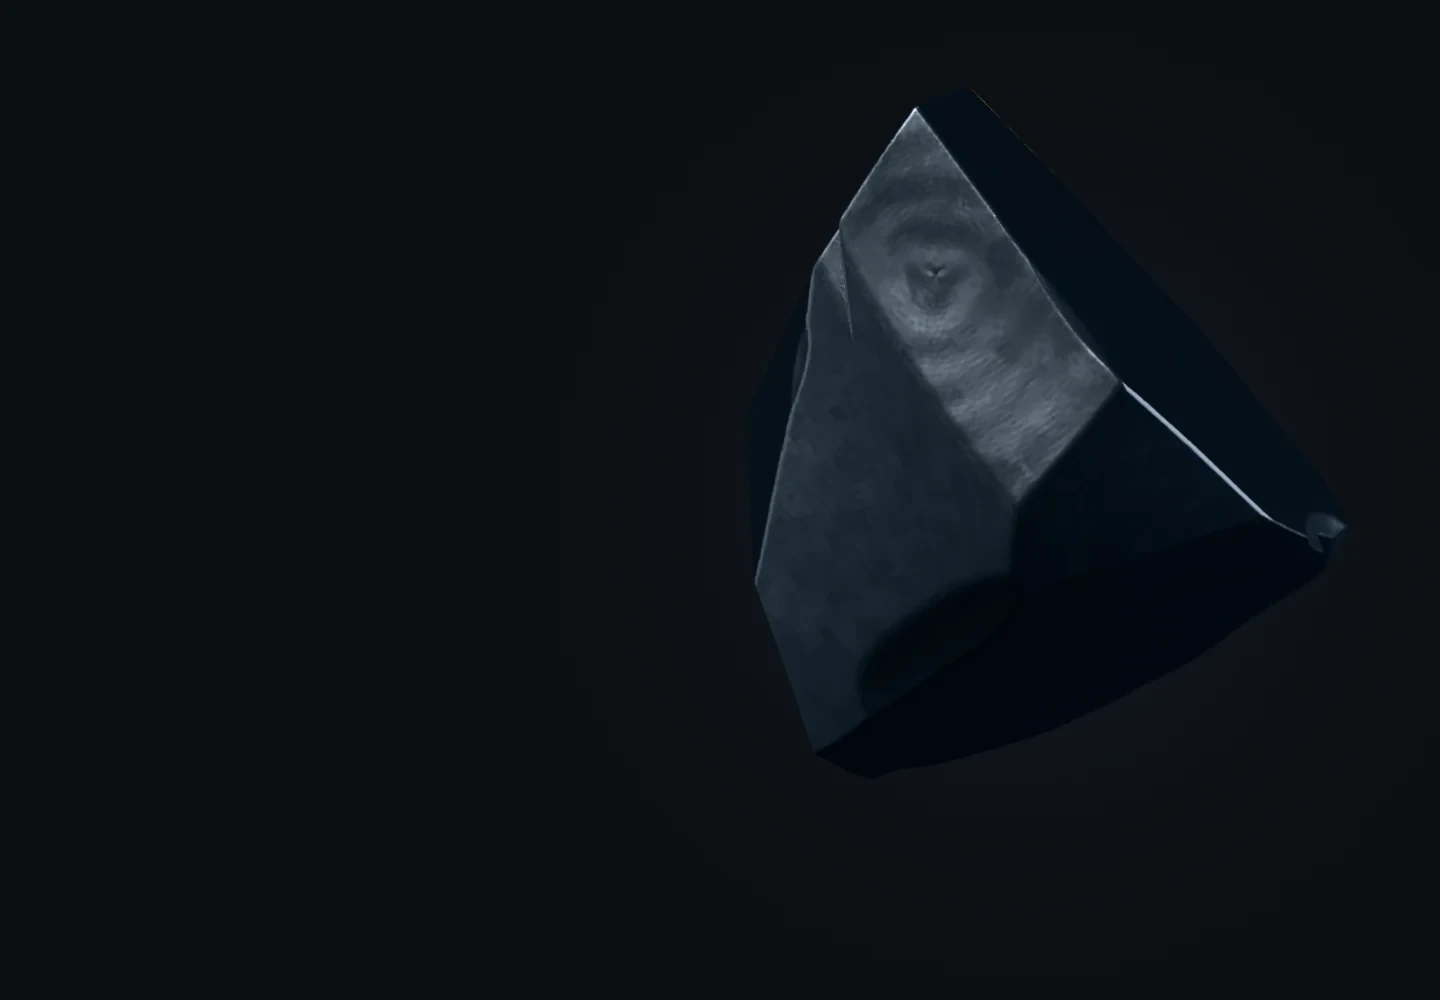
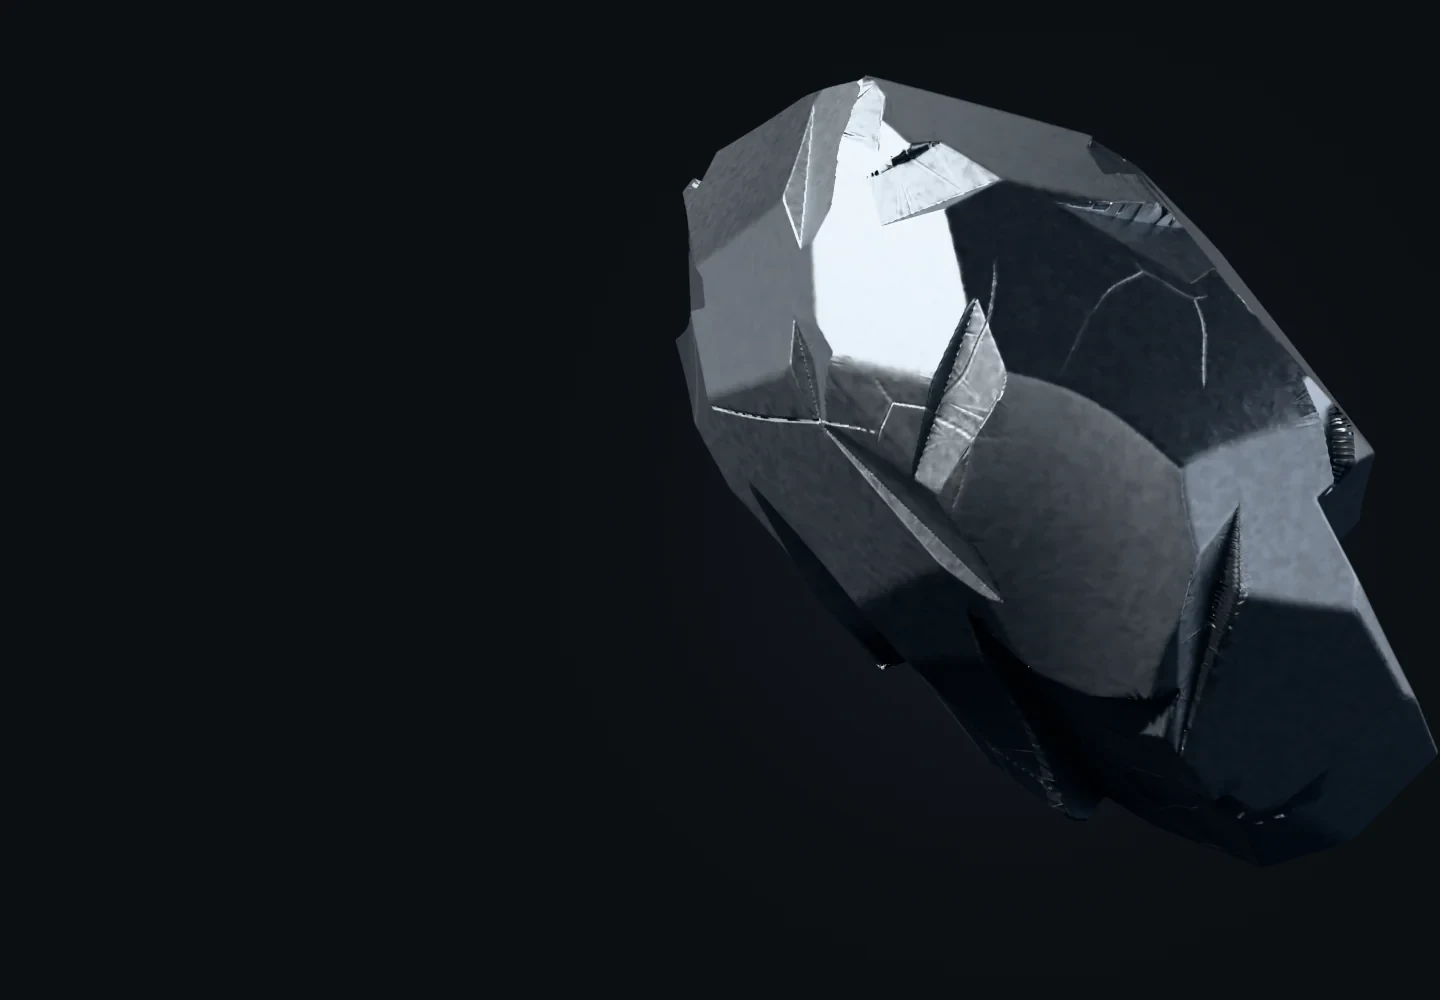
A2 QA and docs: turntable, Three.js check, manifest, pipeline commands
chunk-turntable.webp (6 angles x 3 lights of the shipped GLB),
chunk-in-three.webp and NOTES.md (Cycles vs Three.js, measured),
refreshed handover captures, ASSET_MANIFEST A2 section with the look
references, tools/README commands and run times.

Changed region(s): [[0.4688, 0.062, 1.0, 0.744]]

diff --git a/docs/ASSET_MANIFEST.md b/docs/ASSET_MANIFEST.md
@@ -1,5 +1,49 @@
 # Asset manifest
 
+## A2: hero chunk, studio, posters (Blender)
+
+All files below are original work of this project, generated by the scripts in `tools/blender/`
+(no third-party models, textures or HDRIs). Repository licence: not chosen yet (see README), so
+they are covered by the same terms as the rest of the repo. Tools: Blender 5.2.2 LTS (build
+`d13f752e3b9c`), Cycles on OptiX (RTX 3070 Laptop), glTF exporter bundled with Blender; 2D finishing
+with Python 3.10 + Pillow 10.0 + numpy (`tools/blender/compose.py`). Seeds: chunk `--seed 14`,
+per-piece material jitter `default_rng(1000)`, Cycles seed 0 (default), poster dither `default_rng(14)`.
+Commands and run times: `tools/README.md`. `B` = `~/tools/blender/blender -b --factory-startup -P`.
+
+| File | Scene | Content | Bytes (brotli) | Textures | Triangles | Variants | Regenerate |
+|---|---|---|---|---|---|---|---|
+| `src/assets/models/silicon-chunk-2k.glb` | 00 hero, cinematic | runtime chunk: POSITION, NORMAL, TEXCOORD_0 (no TANGENT, see note 1), uniform baseColor `#8f9498`, normal + ORM (AO x crack mask, roughness, metallic 0.95) | 2,807,044 (2,068,276) | normal 2048² WebP 472 KB, ORM 2048² WebP 511 KB | 56,000 | 2K / 1K | `B tools/blender/silicon_chunk.py` (writes all three GLBs, ~21 min) |
+| `src/assets/models/silicon-chunk-1k.glb` | 00 hero, balanced / mobile | same shape, own decimation, UVs and bake | 1,036,772 (728,120) | normal 1024² 158 KB, ORM 1024² 123 KB | 22,000 | 2K / 1K | same command |
+| `src/assets/models/fracture-face.glb` | 00 entry transition | high-detail patch of the entry face (piece id in `tools/blender/out/chunk-stats.json`), same object space as the chunk | 709,424 (507,637) | normal 2048² 68 KB, ORM 2048² 96 KB | 23,999 | one | same command |
+| `src/assets/env/studio-1k.hdr` | 00 hero | equirect 1024x512 RGBE of the five softboxes (key 5.0x3.4 m with falloff, fill, amber rim, top strip, kick) + dim sky gradient | 198,589 (70,164) | 1024x512 | n/a | one | `B tools/blender/studio.py -- hdr` (3 s) |
+| `src/assets/models/hero-camera.json` | 00 hero | cameras (desktop, mobile), rig, `chunkRotationY` = pi, `entryFace`, `toneMapping` NeutralToneMapping, `viewTransform` "Khronos PBR Neutral", `exposure` 1.1892 (= +0.25 EV), `environmentIntensity` 1.35 (note 2) | 3,661 | n/a | n/a | one | `B tools/blender/studio.py -- camera` (1 s, after the chunk build) |
+| `src/assets/posters/hero-desktop.webp` | 00 hero poster, no-JS, calm | Cycles 384 spp, 1600x1000, HDR-only light, graphite `#0b0e12` + cool glow composited | 24,882 | 1600x1000 | n/a | desktop / mobile | `B tools/blender/studio.py -- posters` (23 s both) |
+| `src/assets/posters/hero-mobile.webp` | 00 hero poster (mobile framing) | same, 900x1400 | 23,154 | 900x1400 | n/a | desktop / mobile | same command |
+| `docs/qa/assets/chunk-turntable.webp` | QA only, not shipped | 6 angles x 3 lights (studio, studio rotated 140°, raking) of the shipped 2K GLB | 70,586 | 2400x1200 | n/a | n/a | `B tools/blender/studio.py -- sheet` (38 s) |
+| `docs/qa/assets/chunk-in-three.webp` | QA only, not shipped | the 2K GLB in Three.js at hero progress 0 (NVIDIA, cinematic) | 47,432 | 1440x1000 | n/a | n/a | `npm run build && npm run preview -- --port 4174`, then `python tests/screens.py handover`, copy `docs/qa/after/handover-desktop-canvas.webp` |
+
+Source mesh: the 1.31M-triangle high-res surface is rebuilt from the seed on every run and never
+written to disk; `--blend` saves the runtime scene to `tools/blender/src/silicon_chunk.blend` if a
+`.blend` is ever needed. Nothing large is kept out of git.
+
+Note 1, tangents: the GLBs ship without TANGENT (saves 743 KB on 2K, 311 KB on 1K, needed to stay
+under 3 MiB / 1 MiB with the fine grain in the maps). Three.js derives the tangent frame per pixel;
+checked against Cycles in `docs/qa/assets/NOTES.md`. The files in the repo were exported with
+tangents and then stripped by a lossless repack (only the TANGENT accessor removed); the script now
+exports with `export_tangents=False`, which gives the same data or fewer vertices.
+
+Note 2, environmentIntensity: Three.js has no interreflection, so concave faces only see the dark
+studio. 1.35 matches the poster's mean chunk luminance within 0.4 (desktop) and 3.2 (mobile) of
+255 (`docs/qa/after/capture-nvidia.json`, key `handover`).
+
+### Look references (reference only, not shipped, not used by any build)
+
+| File | Source | Use |
+|---|---|---|
+| `references/concept.png` | concept board delivered with the brief | mood and palette |
+| `references/silicon-ref-real-fluxultra-b.webp` | generated, model FLUX 1.1 Pro Ultra, seed 21 | primary material reference (grey metallic polysilicon, grain, cracks) |
+| `references/silicon-ref-real-seedream4.webp` | generated, model Seedream 4 | secondary, matte nodular outer surface only |
+
 ## Runtime (fonts, libraries)
 
 Section owned by stage A3 (runtime). The model, HDR, camera and poster entries belong to the A2

diff --git a/docs/qa/assets/NOTES.md b/docs/qa/assets/NOTES.md
@@ -1,0 +1,38 @@
+# Chunk: Cycles poster vs Three.js
+
+Capture: `python tests/screens.py handover` against `npm run preview -- --port 4174`, URL
+`?scene=poczatek&progress=0&quality=cinematic&freeze=1`, headless Chromium on the RTX 3070
+(ANGLE/EGL with the NVIDIA vendor file). Live renderer state read from `krzemDebug.gpu`:
+`toneMapping` 7 (NeutralToneMapping), `exposure` 1.1892, 56,000 triangles.
+`chunk-in-three.webp` is the desktop canvas frame.
+
+| environmentIntensity | desktop chunk luminance, canvas / poster | mobile | mean abs diff on chunk pixels (desktop / mobile) |
+|---|---|---|---|
+| 1.0 | 63.6 / 75.4 | 58.4 / 73.8 | 16.3 / 20.3 |
+| 1.25 | 71.9 / 75.4 | 67.3 / 73.8 | 13.6 / 16.0 |
+| **1.35 (shipped)** | **75.0 / 75.4** | **70.6 / 73.8** | **13.7 / 15.4** |
+| 1.45 | 77.9 / 75.4 | 73.7 / 73.8 | 14.3 / 15.3 |
+
+Background luminance 14.6 / 14.9, so the graphite matches.
+
+What matches: framing, silhouette, highlight positions and shapes, grain, cracks, normal-map
+orientation. The relief is not inverted, so the green channel is right, and the per-pixel tangent
+frame Three.js derives (the GLB has no TANGENT) agrees with the MikkTSpace bake.
+
+What differed and what was done:
+
+- Chunk about 16 % darker at environmentIntensity 1: most of the gap is on the large concave scoop
+  and the mid-grey faces. The baked AO is not the cause (occlusion strength 0 moved desktop only
+  from 63.6 to 64.5). The cause is interreflection: in Cycles the scoop reflects the lit lump, in
+  Three.js it only sees the dark studio. Fixed on the asset side with `environmentIntensity: 1.35`
+  in `hero-camera.json`, which `src/scripts/scenes/hero.js` already reads. No runtime change.
+- Thin bright hair-like streaks on the walls of the small flake scars (right side of the chunk).
+  Cause: very thin UV islands on those walls, where mip filtering and the derived tangents
+  disagree with the bake. Visible on the still frame, not at reading distance. Asset-side fix if
+  wanted: raise `island_margin` in `unwrap()` and the bake margin, or ship tangents again (+743 KB
+  on 2K, which breaks the 3 MiB budget). Nothing for the runtime to change.
+- Hairline cracks are slightly fainter in Three.js (thin grooves lose contrast in the normal-map
+  mips). Accepted.
+- The Cycles poster has a faint sawtooth on two flake-scar edges (right edge and lower right of the
+  desktop poster). It comes from the 56k-triangle decimation of the thin walls and shows in both
+  renderers. Would need the flake walls kept out of the decimation or fewer, wider flakes.

diff --git a/tools/README.md b/tools/README.md
@@ -33,3 +33,26 @@ Run a script headless (arguments after `--` go to the script's `sys.argv`):
 ```
 
 Add `--factory-startup` to ignore any local user preferences and add-ons.
+
+## Hero chunk pipeline (stage A2)
+
+Run from the repo root, one Blender process at a time (they share the GPU). `B` below means
+`~/tools/blender/blender -b --factory-startup -P`. Times measured on the reference machine
+(RTX 3070 Laptop, OptiX, 16 threads, 27 GB RAM). Order matters where noted.
+
+| Output | Command | Time |
+|---|---|---|
+| `src/assets/env/studio-1k.hdr` | `B tools/blender/studio.py -- hdr` | 3 s |
+| `src/assets/models/silicon-chunk-2k.glb`, `silicon-chunk-1k.glb`, `fracture-face.glb`, `tools/blender/out/entry-face.json`, `tools/blender/out/chunk-stats.json` | `B tools/blender/silicon_chunk.py` (`-- --seed 14` is the default) | 21 min |
+| `src/assets/models/hero-camera.json` | `B tools/blender/studio.py -- camera` (after the chunk build: it reads `out/entry-face.json`) | 1 s |
+| `src/assets/posters/hero-desktop.webp`, `hero-mobile.webp` | `B tools/blender/studio.py -- posters` (needs the 2K GLB and the HDR) | 23 s |
+| `docs/qa/assets/chunk-turntable.webp` | `B tools/blender/studio.py -- sheet` | 38 s |
+| `tools/blender/out/poses.webp` (QA: hero camera at 12 rotations, to choose `CHUNK_ROTATION_Z`) | `B tools/blender/studio.py -- poses` | 26 s |
+| `tools/blender/out/rigcheck.webp` (QA: rig planes vs HDR world) | `B tools/blender/studio.py -- rigcheck` | 6 s |
+| look-dev sheet of the procedural source (6 angles x 2 lights, no bake) | `B tools/blender/silicon_chunk.py -- --subdiv 8 --preview out.webp` | 5-6.5 min |
+| `docs/qa/assets/chunk-in-three.webp` + handover metrics | `npm run build && npm run preview -- --port 4174`, then `python tests/screens.py handover`, copy `docs/qa/after/handover-desktop-canvas.webp` | 10 s |
+
+The chunk build picks the entry face from the hero pose (`CHUNK_ROTATION_Z` in `studio.py`), so
+after changing the pose rerun the chunk build, then `camera` and `posters`. The hero exposure
+(`EXPOSURE_EV`) and the Three.js `environmentIntensity` (`ENV_INTENSITY_THREE`) also live in
+`studio.py` and reach the runtime only through `camera`.
